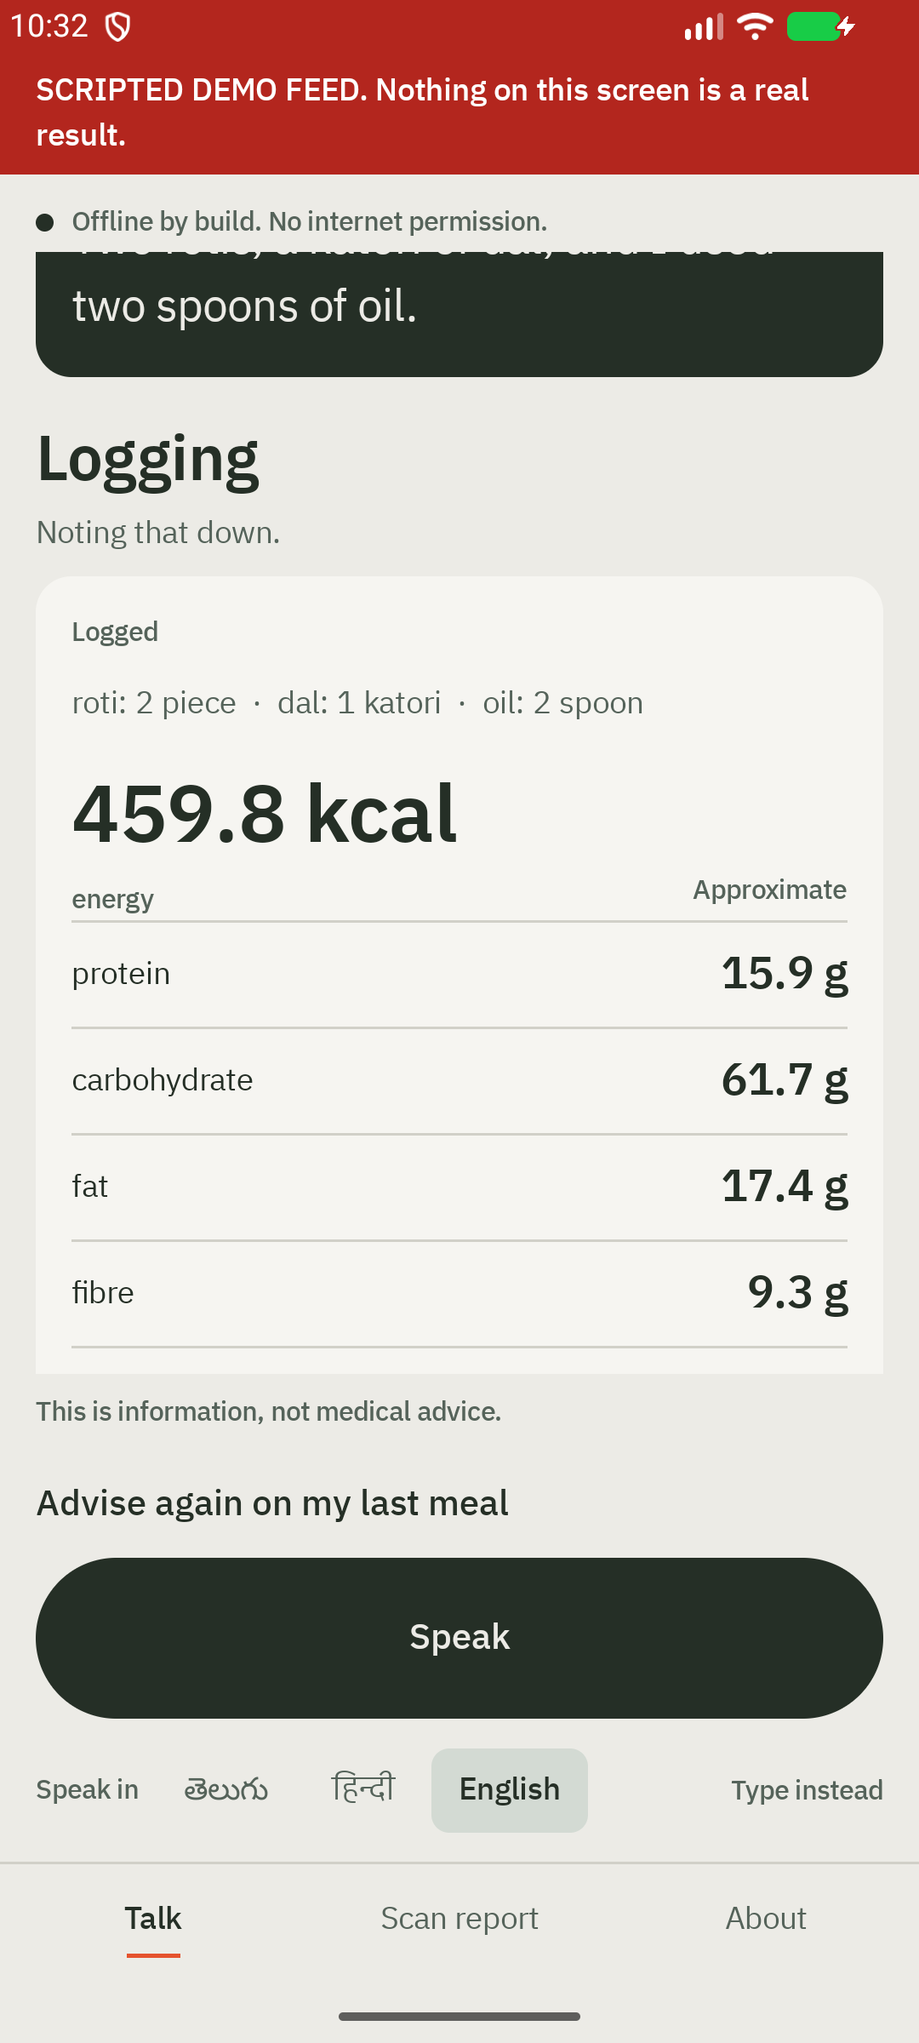
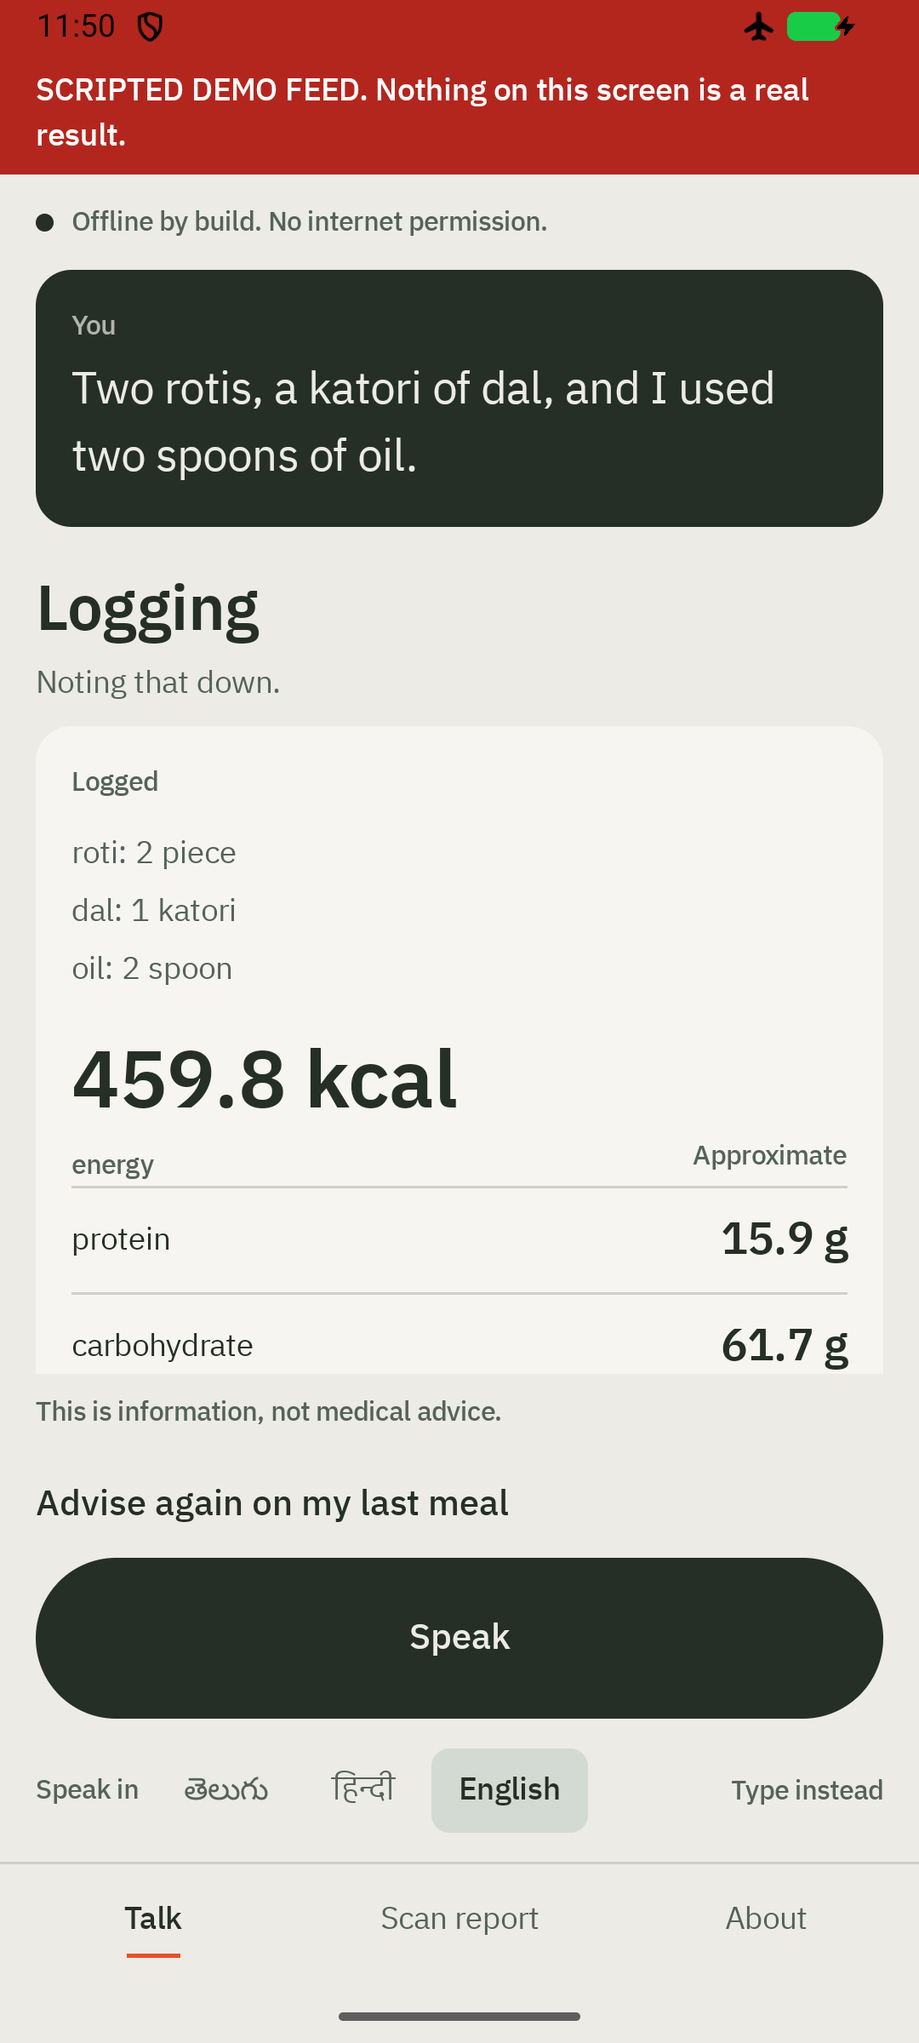
Give the screens their motion: words arrive, numbers appear, nothing moves while the model works, and reduce-motion is honoured; measure it on the emulator

diff --git a/app/src/main/java/io/github/vedant7007/katori/ui/theme/Motion.kt b/app/src/main/java/io/github/vedant7007/katori/ui/theme/Motion.kt
@@ -1,0 +1,70 @@
+package io.github.vedant7007.katori.ui.theme
+
+import android.provider.Settings
+import androidx.compose.animation.core.Animatable
+import androidx.compose.animation.core.AnimationSpec
+import androidx.compose.animation.core.Spring
+import androidx.compose.animation.core.spring
+import androidx.compose.runtime.Composable
+import androidx.compose.runtime.LaunchedEffect
+import androidx.compose.runtime.compositionLocalOf
+import androidx.compose.runtime.getValue
+import androidx.compose.runtime.mutableStateOf
+import androidx.compose.runtime.remember
+import androidx.compose.runtime.saveable.rememberSaveable
+import androidx.compose.runtime.setValue
+import androidx.compose.ui.Modifier
+import androidx.compose.ui.graphics.graphicsLayer
+import androidx.compose.ui.platform.LocalContext
+import androidx.compose.ui.unit.dp
+
+/**
+ * The motion tokens, and the one rule that outranks them: the figures-first ruling. A number
+ * appears at once, never behind a transition; a card that carries only words may arrive.
+ *
+ * Springs, from Material 3's Standard scheme (research §1.2): spatial 700 / 0.9 for anything that
+ * moves, effects 1600 / 1.0 for anything that fades. Nothing here runs during inference by
+ * design: the stage list and the counter change with no animation, and the only draw during a
+ * turn is the level bar while recording and the counter once a second.
+ */
+object Motion {
+    val spatial: AnimationSpec<Float> = spring(dampingRatio = 0.9f, stiffness = 700f)
+    val effects: AnimationSpec<Float> = spring(dampingRatio = Spring.DampingRatioNoBouncy, stiffness = 1600f)
+}
+
+/**
+ * True when the system's animator duration scale is 0 (Settings → Accessibility → Remove
+ * animations, or Developer options). Every animation in the app checks it; the splash goes
+ * straight to its end state.
+ */
+val LocalReduceMotion = compositionLocalOf { false }
+
+@Composable
+fun rememberReduceMotion(): Boolean {
+    val context = LocalContext.current
+    return remember { Settings.Global.getFloat(context.contentResolver, Settings.Global.ANIMATOR_DURATION_SCALE, 1f) == 0f }
+}
+
+/**
+ * A block of words arriving: alpha 0 → 1 and 8 dp of rise, on the effects spring, once per item,
+ * in `graphicsLayer` so nothing lays out or recomposes per frame. Interruptible (a spring), never
+ * blocks input, and remembered as arrived so a scroll back does not replay it. Not for a card
+ * that carries a figure: those appear at once (the plate, the diary figures).
+ */
+@Composable
+fun Modifier.arrive(): Modifier {
+    val reduce = LocalReduceMotion.current
+    var arrived by rememberSaveable { mutableStateOf(reduce) }
+    val t = remember { Animatable(if (arrived) 1f else 0f) }
+    LaunchedEffect(Unit) {
+        if (!arrived) {
+            t.animateTo(1f, Motion.effects)
+            arrived = true
+        }
+    }
+    // t is read only inside the draw lambda: the frames of the entrance never recompose anything.
+    return graphicsLayer {
+        alpha = t.value
+        translationY = (1f - t.value) * 8.dp.toPx()
+    }
+}

diff --git a/app/src/main/java/io/github/vedant7007/katori/ui/components/Cards.kt b/app/src/main/java/io/github/vedant7007/katori/ui/components/Cards.kt
@@ -27,11 +27,16 @@ import androidx.compose.ui.unit.dp
 import io.github.vedant7007.katori.ui.theme.In2fitColors
 import io.github.vedant7007.katori.ui.theme.In2fitText
 import io.github.vedant7007.katori.ui.theme.Space
+import io.github.vedant7007.katori.ui.theme.arrive
 
-/** A prose block on the ground: a label, then text. For what the app says, as opposed to a plate. */
+/**
+ * A prose block on the ground: a label, then text. For what the app says, as opposed to a plate.
+ * It arrives with the entrance unless [arrives] is false, which a caller sets when the block
+ * carries a figure: a number appears at once (the figures-first ruling).
+ */
 @Composable
-fun Prose(label: String?, modifier: Modifier = Modifier, content: @Composable () -> Unit) {
-    Column(modifier.fillMaxWidth().padding(vertical = Space.s), verticalArrangement = Arrangement.spacedBy(Space.xs)) {
+fun Prose(label: String?, modifier: Modifier = Modifier, arrives: Boolean = true, content: @Composable () -> Unit) {
+    Column(modifier.fillMaxWidth().then(if (arrives) Modifier.arrive() else Modifier).padding(vertical = Space.s), verticalArrangement = Arrangement.spacedBy(Space.xs)) {
         if (label != null) Label(label)
         content()
     }
@@ -61,7 +66,7 @@ fun AdviceCard(
     candidates: List<String>,
     modifier: Modifier = Modifier,
 ) {
-    Raised(modifier) {
+    Raised(modifier.arrive()) {
         Column(verticalArrangement = Arrangement.spacedBy(Space.s)) {
             Label(label)
             Text(trigger, style = In2fitText.body.copy(fontWeight = androidx.compose.ui.text.font.FontWeight.Medium))
@@ -81,7 +86,7 @@ fun AdviceCard(
 /** The model's sentence, or the fixed refusal over the person's own figures. */
 @Composable
 fun AnswerCard(label: String, text: String, referral: String?, figures: List<String>, modifier: Modifier = Modifier) {
-    Prose(label, modifier) {
+    Prose(label, modifier, arrives = figures.isEmpty()) {
         if (figures.isNotEmpty()) ContextLines(figures, modifier = Modifier.padding(bottom = Space.s))
         Text(text, style = In2fitText.body)
         if (referral != null) Referral(referral)
@@ -94,7 +99,7 @@ fun AnswerCard(label: String, text: String, referral: String?, figures: List<Str
  */
 @Composable
 fun AskCard(question: String, options: List<Pair<String, () -> Unit>>, modifier: Modifier = Modifier) {
-    Surface(modifier = modifier.fillMaxWidth(), color = In2fitColors.raised, shape = MaterialTheme.shapes.medium) {
+    Surface(modifier = modifier.fillMaxWidth().arrive(), color = In2fitColors.raised, shape = MaterialTheme.shapes.medium) {
         Column {
             Text(question, style = In2fitText.bodySmall, color = In2fitColors.inkSecondary, modifier = Modifier.padding(Space.l))
             options.forEach { (word, act) ->

diff --git a/app/src/main/java/io/github/vedant7007/katori/ui/components/Figures.kt b/app/src/main/java/io/github/vedant7007/katori/ui/components/Figures.kt
@@ -86,23 +86,38 @@ fun FigureList(figures: List<FigureLine>, hero: FigureLine? = null, modifier: Mo
 }
 
 /**
+ * One item on the plate: the amount as said or as assumed, and, only when the amount was ASSUMED
+ * (`QUANTITY_INFERRED`, 0035), the "taken as N g" caption. A stated amount shows as said and its
+ * grams stay behind the band (Vedant, 20 Sep). [takenAs] is null until the grams reach the entry.
+ */
+data class PlateItem(val said: String, val takenAs: String?)
+
+/**
  * The plate as the deck promised it (research §3): the energy as the hero figure, the items as
- * said on one line, the other figures as aligned rows, the band once. [status] is the "Logged" or
- * "not logged" line the entry carries; [items] are the item lines as the screen renders them.
+ * said, one per line, the other figures as aligned rows, the band once. [status] is the "Logged"
+ * or "not logged" line the entry carries.
  */
 @Composable
-fun PlateCard(status: String?, items: List<String>, figures: List<FigureLine>, modifier: Modifier = Modifier) {
+fun PlateCard(status: String?, items: List<PlateItem>, figures: List<FigureLine>, modifier: Modifier = Modifier) {
     val energyWord = stringResource(R.string.nutrient_energy)
     val hero = figures.firstOrNull { it.name == energyWord }
     Raised(modifier) {
         Column(verticalArrangement = Arrangement.spacedBy(Space.m)) {
             if (status != null) Label(status)
-            if (items.isNotEmpty()) Text(items.joinToString("  ·  "), style = In2fitText.bodySmall, color = In2fitColors.inkSecondary)
+            if (items.isNotEmpty()) {
+                Column(verticalArrangement = Arrangement.spacedBy(Space.xs)) {
+                    items.forEach { item ->
+                        Row(verticalAlignment = Alignment.CenterVertically) {
+                            Text(item.said, style = In2fitText.bodySmall, color = In2fitColors.inkSecondary)
+                            if (item.takenAs != null) Text(item.takenAs, style = In2fitText.label, modifier = Modifier.padding(start = Space.m))
+                        }
+                    }
+                }
+            }
             FigureList(figures.filter { it !== hero }, hero = hero)
         }
     }
 }
-
 /**
  * A line the store writes for the model and the screen (`ContextText`): a period line is
  * "<heading>: <name>: <value>; <name>: <value>; …" and becomes a heading over figure rows. A lab
@@ -137,3 +152,4 @@ fun ContextLines(lines: List<String>, modifier: Modifier = Modifier) {
         }
     }
 }
+

diff --git a/app/src/main/java/io/github/vedant7007/katori/ui/TalkScreen.kt b/app/src/main/java/io/github/vedant7007/katori/ui/TalkScreen.kt
@@ -59,6 +59,7 @@ import io.github.vedant7007.katori.ui.components.IntentHeading
 import io.github.vedant7007.katori.ui.components.MicButton
 import io.github.vedant7007.katori.ui.components.OfflineMark
 import io.github.vedant7007.katori.ui.components.PlateCard
+import io.github.vedant7007.katori.ui.components.PlateItem
 import io.github.vedant7007.katori.ui.components.Prose
 import io.github.vedant7007.katori.ui.components.SafetyLine
 import io.github.vedant7007.katori.ui.components.SaidBlock
@@ -206,14 +207,17 @@ private fun EntryView(entry: Entry, onResolve: (String, SpokenIntent) -> Unit) {
         is Entry.Said -> SaidBlock(entry.text)
         is Entry.Heading -> IntentHeading(stringResource(Sentences.intent(entry.intent)), entry.leadIn)
         // The person's own lines, straight from the store, before any model call: the answer itself.
-        is Entry.Figures -> Prose(stringResource(R.string.answer_from_diary)) { ContextLines(entry.lines) }
+        is Entry.Figures -> Prose(stringResource(R.string.answer_from_diary), arrives = false) { ContextLines(entry.lines) }
         is Entry.Plate -> PlateCard(
             status = when {
                 entry.hypothetical -> stringResource(R.string.meal_hypothetical)
                 entry.logged -> stringResource(R.string.meal_logged)
                 else -> null
             },
-            items = entry.items.map { itemLine(it) },
+            // The "taken as" caption (0035) needs the grams, which do not reach the entry yet
+            // (COORDINATION 23:34, asked of Rao and Arjun). Until then no caption; the hour
+            // `Entry.Plate.grams` lands, this is `entry.grams[i]` and the QUANTITY_INFERRED check.
+            items = entry.items.map { PlateItem(said = itemLine(it), takenAs = null) },
             figures = entry.figures.map { (line, band) -> FigureLine.fromRendered(line, band) },
         )
         is Entry.Advice -> AdviceCard(

diff --git a/app/src/main/java/io/github/vedant7007/katori/ui/components/Mic.kt b/app/src/main/java/io/github/vedant7007/katori/ui/components/Mic.kt
@@ -11,6 +11,13 @@ import androidx.compose.runtime.Composable
 import androidx.compose.ui.Alignment
 import androidx.compose.ui.Modifier
 import androidx.compose.ui.draw.clip
+import androidx.compose.ui.graphics.graphicsLayer
+import androidx.compose.animation.core.Animatable
+import androidx.compose.runtime.remember
+import androidx.compose.runtime.rememberCoroutineScope
+import kotlinx.coroutines.launch
+import io.github.vedant7007.katori.ui.theme.LocalReduceMotion
+import io.github.vedant7007.katori.ui.theme.Motion
 import androidx.compose.ui.draw.drawBehind
 import androidx.compose.ui.geometry.Offset
 import androidx.compose.ui.geometry.Size
@@ -45,6 +52,10 @@ fun MicButton(
     modifier: Modifier = Modifier,
 ) {
     val haptics = LocalHapticFeedback.current
+    val reduceMotion = LocalReduceMotion.current
+    val scope = rememberCoroutineScope()
+    // The press: 1 → 0.97 on the spatial spring, read in the draw lambda only; off under reduce motion.
+    val press = remember { Animatable(1f) }
     val fill = when {
         stop != null -> In2fitColors.ink
         enabled || active -> In2fitColors.ink
@@ -58,8 +69,10 @@ fun MicButton(
             detectTapGestures(onPress = {
                 if (enabled) {
                     haptics.performHapticFeedback(HapticFeedbackType.LongPress)
+                    if (!reduceMotion) scope.launch { press.animateTo(0.97f, Motion.spatial) }
                     onPress()
                     tryAwaitRelease()
+                    if (!reduceMotion) scope.launch { press.animateTo(1f, Motion.spatial) }
                     onRelease()
                 }
             })
@@ -69,6 +82,7 @@ fun MicButton(
         modifier
             .fillMaxWidth()
             .height(72.dp)
+            .graphicsLayer { scaleX = press.value; scaleY = press.value }
             .clip(CircleShape)
             .drawBehind {
                 drawRect(fill)

diff --git a/app/src/main/java/io/github/vedant7007/katori/ui/components/Turn.kt b/app/src/main/java/io/github/vedant7007/katori/ui/components/Turn.kt
@@ -27,6 +27,7 @@ import io.github.vedant7007.katori.R
 import io.github.vedant7007.katori.ui.theme.In2fitColors
 import io.github.vedant7007.katori.ui.theme.In2fitText
 import io.github.vedant7007.katori.ui.theme.Space
+import io.github.vedant7007.katori.ui.theme.arrive
 
 /**
  * The person's words, verbatim, in their script, on the one dark block on the screen. 20 sp at
@@ -35,7 +36,7 @@ import io.github.vedant7007.katori.ui.theme.Space
  */
 @Composable
 fun SaidBlock(text: String, doubtful: Boolean = false, modifier: Modifier = Modifier) {
-    Surface(modifier = modifier.fillMaxWidth(), color = In2fitColors.person, shape = MaterialTheme.shapes.medium) {
+    Surface(modifier = modifier.fillMaxWidth().arrive(), color = In2fitColors.person, shape = MaterialTheme.shapes.medium) {
         Column(Modifier.padding(Space.l)) {
             Text(stringResource(R.string.said_by_you), style = In2fitText.label, color = In2fitColors.onPerson.copy(alpha = 0.7f))
             Text(text, style = In2fitText.transcript, color = In2fitColors.onPerson, modifier = Modifier.padding(top = Space.xs))
@@ -47,7 +48,7 @@ fun SaidBlock(text: String, doubtful: Boolean = false, modifier: Modifier = Modi
 /** 0026 step 5: which of the four the turn became, 28 sp, with the lead-in as it is spoken. */
 @Composable
 fun IntentHeading(title: String, leadIn: String?, modifier: Modifier = Modifier) {
-    Column(modifier.fillMaxWidth().padding(top = Space.s)) {
+    Column(modifier.fillMaxWidth().arrive().padding(top = Space.s)) {
         Text(title, style = In2fitText.title)
         if (leadIn != null) Text(leadIn, style = In2fitText.bodySmall, color = In2fitColors.inkSecondary)
     }

diff --git a/app/src/main/java/io/github/vedant7007/katori/ui/components/Splash.kt b/app/src/main/java/io/github/vedant7007/katori/ui/components/Splash.kt
@@ -23,6 +23,7 @@ import androidx.compose.ui.res.stringResource
 import androidx.compose.ui.unit.dp
 import io.github.vedant7007.katori.R
 import io.github.vedant7007.katori.ui.theme.In2fitColors
+import io.github.vedant7007.katori.ui.theme.LocalReduceMotion
 import io.github.vedant7007.katori.ui.theme.Space
 import kotlinx.coroutines.delay
 import kotlinx.coroutines.launch
@@ -41,11 +42,13 @@ import kotlinx.coroutines.launch
  */
 @Composable
 fun Splash(ready: () -> Boolean, onFinished: () -> Unit) {
-    val scaleX = remember { Animatable(0.72f) }
-    val tagline = remember { Animatable(0f) }
+    val reduceMotion = LocalReduceMotion.current
+    val scaleX = remember { Animatable(if (reduceMotion) 1f else 0.72f) }
+    val tagline = remember { Animatable(if (reduceMotion) 1f else 0f) }
     val veil = remember { Animatable(1f) }
     LaunchedEffect(Unit) {
-        while (true) {
+        // Reduce motion: the end state, no breathing, gone as soon as the app is ready.
+        while (!reduceMotion) {
             launch { tagline.animateTo(1f, tween(900, delayMillis = 200, easing = LinearOutSlowInEasing)) }
             scaleX.animateTo(1f, tween(1200, easing = LinearOutSlowInEasing))
             if (ready()) break
@@ -53,7 +56,8 @@ fun Splash(ready: () -> Boolean, onFinished: () -> Unit) {
             launch { tagline.animateTo(0f, tween(600)) }
             scaleX.animateTo(0.72f, tween(600, easing = FastOutSlowInEasing))
         }
-        veil.animateTo(0f, tween(250))
+        if (reduceMotion) { while (!ready()) delay(100) }
+        veil.animateTo(0f, tween(if (reduceMotion) 0 else 250))
         onFinished()
     }
     Box(

diff --git a/app/src/main/java/io/github/vedant7007/katori/ui/theme/Theme.kt b/app/src/main/java/io/github/vedant7007/katori/ui/theme/Theme.kt
@@ -6,6 +6,7 @@ import androidx.compose.material3.Shapes
 import androidx.compose.material3.Typography
 import androidx.compose.material3.lightColorScheme
 import androidx.compose.runtime.Composable
+import androidx.compose.runtime.CompositionLocalProvider
 import androidx.compose.ui.graphics.Color
 import androidx.compose.ui.text.PlatformTextStyle
 import androidx.compose.ui.text.TextStyle
@@ -142,5 +143,8 @@ private val shapes = Shapes(
 
 @Composable
 fun In2fitTheme(content: @Composable () -> Unit) {
-    MaterialTheme(colorScheme = colorScheme, typography = typography, shapes = shapes, content = content)
+    val reduceMotion = rememberReduceMotion()
+    CompositionLocalProvider(LocalReduceMotion provides reduceMotion) {
+        MaterialTheme(colorScheme = colorScheme, typography = typography, shapes = shapes, content = content)
+    }
 }

diff --git a/docs/design/design-system.md b/docs/design/design-system.md
@@ -180,14 +180,61 @@ Three reads of the one `State`: the layout (a copy with `level` and `elapsedSeco
 seconds as a `State<Int>` read only in the stage indicator. So a level or a tick never recomposes
 the list.
 
-## Motion
+## Motion (`ui/theme/Motion.kt`)
 
-- The level bar: real data, draw phase, only while recording.
-- The counter: one `Text`, once a second.
-- Nothing else moves during a turn. No indeterminate indicator exists in the app any more.
-- A new entry appears with no animation; the list scrolls to it with the platform's default.
-- Springs, when something does move (later: the splash's expand): Material Standard spatial
-  700 / 0.9; fades: effects 1600 / 1.0. Never a spatial spring on alpha or colour.
+The inventory first, decided on paper: every moment state changes on screen across the four
+beats, and whether motion clarifies what just happened or decorates it.
+
+| moment | verdict | what it does |
+| --- | --- | --- |
+| mic pressed | clarifies "held" | scale 1 → 0.97 on the spatial spring, back on release; haptic; the level bar (real data) |
+| level bar while recording | real data | `drawBehind`, read in the draw phase, frozen at the endpoint |
+| stage advancing, tick and dot | during inference | **no motion**; the list changes with no layout animation |
+| counter ticking | a number | none, one `Text`, once a second |
+| diary figures at 0.5 s | numbers | **none**; the number never waits a frame |
+| plate card resolving | numbers | **none** |
+| transcript, intent heading, ask, confirm, failed, advice, answer | words arriving | `arrive()`: alpha 0 → 1 and 8 dp of rise on the effects spring, once per item, `graphicsLayer` only |
+| the sentence landing in the slot | words arriving after inference | the same entrance; the stage indicator leaves as the answer arrives |
+| tab change, chip, "Type instead", Stop label | repeated actions | instant (Kowalski's rule: never animate the repeated thing) |
+| splash → Talk | the one handoff | 250 ms veil fade; the breathing is `graphicsLayer` scale and alpha |
+| reduce motion on | — | `LocalReduceMotion`: every entrance and the press off, the splash at its end state and gone as soon as the app is ready |
+
+Tokens: `Motion.spatial` = spring 700 / 0.9 (Material Standard), `Motion.effects` = spring
+1600 / 1.0. Both interruptible; nothing blocks input; nothing delays a figure.
+
+### Measured on the emulator, 21 September, feed on (`logs/gfx-*.txt` in the ira tree)
+
+`Medium_Phone`, API 37, x86_64 host running arm64 under translation, `swiftshader_indirect`
+software GPU. `dumpsys gfxinfo <pkg> reset` before each beat, the summary and `framestats` after.
+
+| window | frames drawn | jank by the 16.7 ms bar | 50th / 90th percentile | worst frame, where |
+| --- | ---: | ---: | --- | --- |
+| Talk idle, 10 s | **0** | — | — | nothing drawn: a static screen costs nothing |
+| Beat 1, LOG turn, 22 s | 39 | 35 (90 %) | 105 / 250 ms | 688 ms at t+1.7 s, 645 of it in the renderer; worst UI-thread frame 229 ms at t+2.6 s: transcript + heading + stage list arriving |
+| Beat 2, ANSWER turn, 22 s | 40 | 39 (98 %) | 73 / 150 ms | 403 ms at t+3.1 s, 336 of it UI thread (206 draw-record): the eight diary rows composing at once |
+| Beat 3, Scan with the report, 15 s | 35 | 35 | 109 / 150 ms | the camera preview and the five report cards |
+| Beat 3, save, 8 s | 12 | 12 | 200 / 350 ms | the saved line and the cards re-laid |
+| Beat 4, advise again, 12 s | 39 | 20 (51 %) | 38 / 133 ms | the advice card arriving |
+| cold start with the splash, 40 s | 23 | 14 | 65 / 500 ms | the first frame of the app |
+| cold start, reduce motion on | **4** | 4 | — | the splash at its end state, straight to Talk |
+
+What these numbers do say: the UI draws only on events. A turn of 22 s draws about 40 frames,
+which is the level bar's twelve updates while recording, the stage changes, the entrances, and
+the counter once a second; between events nothing is drawn. The worst frames are the arrivals
+of many text nodes at once (the plate's nine rows, the diary's eight), which the figures-first
+rule requires to appear together; the counter's tick is a single frame of 13–55 ms UI-thread
+time here.
+
+What they do not say: anything about the 8.3 ms or 16.7 ms budget on a phone. Every frame is
+"janky" by that bar because the software renderer alone takes about 40 ms a frame and the UI
+thread is arm64 code under translation; the medians are the emulator's cost, not the design's.
+Whether a dropped frame coincides with inference cannot be measured here at all: the feed runs no
+model. Both belong to the device pass (`dumpsys gfxinfo framestats` on the realme over one real
+LOG turn, before `68d8a34` and at the current commit), asked of Rao.
+
+One consequence worth carrying to the device pass: the plate card is nine `FigureRow`s of two
+to three `Text` nodes each. If the device's worst frame is the plate's arrival, the row collapses
+to one `Text` with an inline span; not before a number says so.
 
 ## Not yet in the system
 
